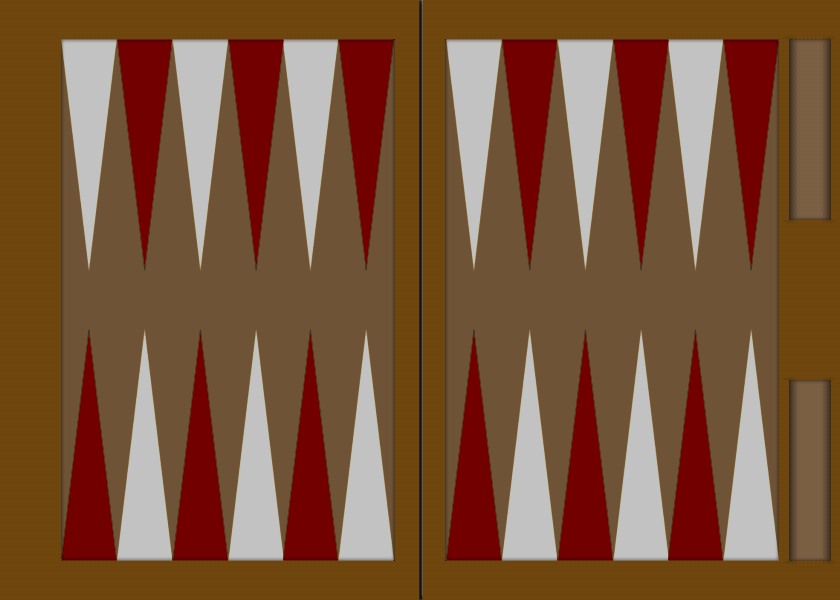
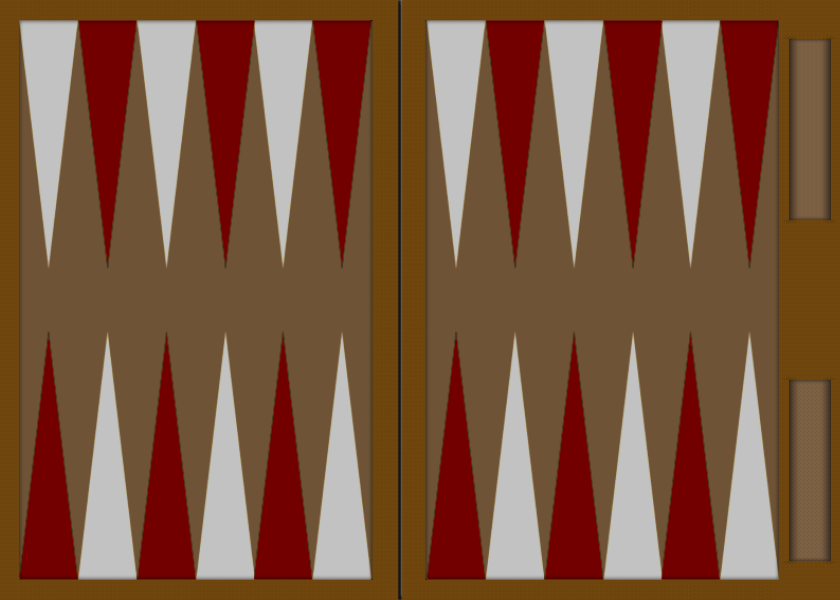
improved board disposition

diff --git a/backgammon-vertx/static/board.html b/backgammon-vertx/static/board.html
@@ -76,89 +76,89 @@
         <div id="blackDiceNr3" class="dice black-1 hidden"></div>
         <div id="blackDiceNr4" class="dice black-1 hidden"></div>
 
-        <div id="point-black-graveyard" class="point" style="top:331px;left:395px;">
-        	<div class="checker hidden" style="top:-20px"></div><div class="checker hidden" style="top:20px"></div><div class="checker hidden" style="top:60px"></div><div class="checker hidden" style="top:100px"></div><div class="checker hidden" style="top:140px"></div><div class="checker hidden" style="top:180px"></div><div class="checker hidden" style="top:160px"></div><div class="checker hidden" style="top:120px"></div><div class="checker hidden" style="top:80px"></div><div class="checker hidden" style="top:40px"></div><div class="checker hidden" style="top:0px"></div><div class="checker hidden" style="top:20px"></div><div class="checker hidden" style="top:60px"></div><div class="checker hidden" style="top:100px"></div><div class="checker hidden" style="top:140px"></div>
+        <div id="point-black-graveyard" class="point" style="top:335px;left:375px;">
+        	<div class="checker hidden" style="top:0px"></div><div class="checker hidden" style="top:40px"></div><div class="checker hidden" style="top:80px"></div><div class="checker hidden" style="top:120px"></div><div class="checker hidden" style="top:160px"></div><div class="checker hidden" style="top:200px"></div><div class="checker hidden" style="top:20px"></div><div class="checker hidden" style="top:60px"></div><div class="checker hidden" style="top:100px"></div><div class="checker hidden" style="top:140px"></div><div class="checker hidden" style="top:180px"></div><div class="checker hidden" style="top:40px"></div><div class="checker hidden" style="top:80px"></div><div class="checker hidden" style="top:120px"></div><div class="checker hidden" style="top:160px"></div>
         </div>
         <div id="point-white-home" class="point" style="top:377px;left:789px;">
         	<div class="topdown-checker hidden" style="top:0px"></div><div class="topdown-checker hidden" style="top:12px"></div><div class="topdown-checker hidden" style="top:24px"></div><div class="topdown-checker hidden" style="top:36px"></div><div class="topdown-checker hidden" style="top:48px"></div><div class="topdown-checker hidden" style="top:60px"></div><div class="topdown-checker hidden" style="top:72px"></div><div class="topdown-checker hidden" style="top:84px"></div><div class="topdown-checker hidden" style="top:96px"></div><div class="topdown-checker hidden" style="top:108px"></div><div class="topdown-checker hidden" style="top:120px"></div><div class="topdown-checker hidden" style="top:132px"></div><div class="topdown-checker hidden" style="top:144px"></div><div class="topdown-checker hidden" style="top:156px"></div><div class="topdown-checker hidden" style="top:168px"></div>
         </div>
-        <div id="point-1" class="point" style="top:333px;left:727px;">
-        	<div class="checker hidden" style="top:180px"></div><div class="checker hidden" style="top:140px"></div><div class="checker hidden" style="top:100px"></div><div class="checker hidden" style="top:60px"></div><div class="checker hidden" style="top:20px"></div><div class="checker hidden" style="top:-20px"></div><div class="checker hidden" style="top:0px"></div><div class="checker hidden" style="top:40px"></div><div class="checker hidden" style="top:80px"></div><div class="checker hidden" style="top:120px"></div><div class="checker hidden" style="top:160px"></div><div class="checker hidden" style="top:140px"></div><div class="checker hidden" style="top:100px"></div><div class="checker hidden" style="top:60px"></div><div class="checker hidden" style="top:20px"></div>
+        <div id="point-1" class="point" style="top:335px;left:722px;">
+        	<div class="checker hidden" style="top:200px"></div><div class="checker hidden" style="top:160px"></div><div class="checker hidden" style="top:120px"></div><div class="checker hidden" style="top:80px"></div><div class="checker hidden" style="top:40px"></div><div class="checker hidden" style="top:0px"></div><div class="checker hidden" style="top:180px"></div><div class="checker hidden" style="top:140px"></div><div class="checker hidden" style="top:100px"></div><div class="checker hidden" style="top:60px"></div><div class="checker hidden" style="top:20px"></div><div class="checker hidden" style="top:160px"></div><div class="checker hidden" style="top:120px"></div><div class="checker hidden" style="top:80px"></div><div class="checker hidden" style="top:40px"></div>
         </div>
-        <div id="point-2" class="point" style="top:333px;left:672px;">
-        	<div class="checker hidden" style="top:180px"></div><div class="checker hidden" style="top:140px"></div><div class="checker hidden" style="top:100px"></div><div class="checker hidden" style="top:60px"></div><div class="checker hidden" style="top:20px"></div><div class="checker hidden" style="top:-20px"></div><div class="checker hidden" style="top:0px"></div><div class="checker hidden" style="top:40px"></div><div class="checker hidden" style="top:80px"></div><div class="checker hidden" style="top:120px"></div><div class="checker hidden" style="top:160px"></div><div class="checker hidden" style="top:140px"></div><div class="checker hidden" style="top:100px"></div><div class="checker hidden" style="top:60px"></div><div class="checker hidden" style="top:20px"></div>
+        <div id="point-2" class="point" style="top:335px;left:663px;">
+        	<div class="checker hidden" style="top:200px"></div><div class="checker hidden" style="top:160px"></div><div class="checker hidden" style="top:120px"></div><div class="checker hidden" style="top:80px"></div><div class="checker hidden" style="top:40px"></div><div class="checker hidden" style="top:0px"></div><div class="checker hidden" style="top:180px"></div><div class="checker hidden" style="top:140px"></div><div class="checker hidden" style="top:100px"></div><div class="checker hidden" style="top:60px"></div><div class="checker hidden" style="top:20px"></div><div class="checker hidden" style="top:160px"></div><div class="checker hidden" style="top:120px"></div><div class="checker hidden" style="top:80px"></div><div class="checker hidden" style="top:40px"></div>
         </div>
-        <div id="point-3" class="point" style="top:333px;left:617px;">
-			<div class="checker hidden" style="top:180px"></div><div class="checker hidden" style="top:140px"></div><div class="checker hidden" style="top:100px"></div><div class="checker hidden" style="top:60px"></div><div class="checker hidden" style="top:20px"></div><div class="checker hidden" style="top:-20px"></div><div class="checker hidden" style="top:0px"></div><div class="checker hidden" style="top:40px"></div><div class="checker hidden" style="top:80px"></div><div class="checker hidden" style="top:120px"></div><div class="checker hidden" style="top:160px"></div><div class="checker hidden" style="top:140px"></div><div class="checker hidden" style="top:100px"></div><div class="checker hidden" style="top:60px"></div><div class="checker hidden" style="top:20px"></div>
+        <div id="point-3" class="point" style="top:335px;left:605px;">
+			<div class="checker hidden" style="top:200px"></div><div class="checker hidden" style="top:160px"></div><div class="checker hidden" style="top:120px"></div><div class="checker hidden" style="top:80px"></div><div class="checker hidden" style="top:40px"></div><div class="checker hidden" style="top:0px"></div><div class="checker hidden" style="top:180px"></div><div class="checker hidden" style="top:140px"></div><div class="checker hidden" style="top:100px"></div><div class="checker hidden" style="top:60px"></div><div class="checker hidden" style="top:20px"></div><div class="checker hidden" style="top:160px"></div><div class="checker hidden" style="top:120px"></div><div class="checker hidden" style="top:80px"></div><div class="checker hidden" style="top:40px"></div>
         </div>
-        <div id="point-4" class="point" style="top:333px;left:562px;">
-			<div class="checker hidden" style="top:180px"></div><div class="checker hidden" style="top:140px"></div><div class="checker hidden" style="top:100px"></div><div class="checker hidden" style="top:60px"></div><div class="checker hidden" style="top:20px"></div><div class="checker hidden" style="top:-20px"></div><div class="checker hidden" style="top:0px"></div><div class="checker hidden" style="top:40px"></div><div class="checker hidden" style="top:80px"></div><div class="checker hidden" style="top:120px"></div><div class="checker hidden" style="top:160px"></div><div class="checker hidden" style="top:140px"></div><div class="checker hidden" style="top:100px"></div><div class="checker hidden" style="top:60px"></div><div class="checker hidden" style="top:20px"></div>
+        <div id="point-4" class="point" style="top:335px;left:546px;">
+			<div class="checker hidden" style="top:200px"></div><div class="checker hidden" style="top:160px"></div><div class="checker hidden" style="top:120px"></div><div class="checker hidden" style="top:80px"></div><div class="checker hidden" style="top:40px"></div><div class="checker hidden" style="top:0px"></div><div class="checker hidden" style="top:180px"></div><div class="checker hidden" style="top:140px"></div><div class="checker hidden" style="top:100px"></div><div class="checker hidden" style="top:60px"></div><div class="checker hidden" style="top:20px"></div><div class="checker hidden" style="top:160px"></div><div class="checker hidden" style="top:120px"></div><div class="checker hidden" style="top:80px"></div><div class="checker hidden" style="top:40px"></div>
         </div>
-        <div id="point-5" class="point" style="top:333px;left:507px;">
-			<div class="checker hidden" style="top:180px"></div><div class="checker hidden" style="top:140px"></div><div class="checker hidden" style="top:100px"></div><div class="checker hidden" style="top:60px"></div><div class="checker hidden" style="top:20px"></div><div class="checker hidden" style="top:-20px"></div><div class="checker hidden" style="top:0px"></div><div class="checker hidden" style="top:40px"></div><div class="checker hidden" style="top:80px"></div><div class="checker hidden" style="top:120px"></div><div class="checker hidden" style="top:160px"></div><div class="checker hidden" style="top:140px"></div><div class="checker hidden" style="top:100px"></div><div class="checker hidden" style="top:60px"></div><div class="checker hidden" style="top:20px"></div>
+        <div id="point-5" class="point" style="top:335px;left:487px;">
+			<div class="checker hidden" style="top:200px"></div><div class="checker hidden" style="top:160px"></div><div class="checker hidden" style="top:120px"></div><div class="checker hidden" style="top:80px"></div><div class="checker hidden" style="top:40px"></div><div class="checker hidden" style="top:0px"></div><div class="checker hidden" style="top:180px"></div><div class="checker hidden" style="top:140px"></div><div class="checker hidden" style="top:100px"></div><div class="checker hidden" style="top:60px"></div><div class="checker hidden" style="top:20px"></div><div class="checker hidden" style="top:160px"></div><div class="checker hidden" style="top:120px"></div><div class="checker hidden" style="top:80px"></div><div class="checker hidden" style="top:40px"></div>
         </div>
-        <div id="point-6" class="point" style="top:333px;left:452px;">
-			<div class="checker hidden" style="top:180px"></div><div class="checker hidden" style="top:140px"></div><div class="checker hidden" style="top:100px"></div><div class="checker hidden" style="top:60px"></div><div class="checker hidden" style="top:20px"></div><div class="checker hidden" style="top:-20px"></div><div class="checker hidden" style="top:0px"></div><div class="checker hidden" style="top:40px"></div><div class="checker hidden" style="top:80px"></div><div class="checker hidden" style="top:120px"></div><div class="checker hidden" style="top:160px"></div><div class="checker hidden" style="top:140px"></div><div class="checker hidden" style="top:100px"></div><div class="checker hidden" style="top:60px"></div><div class="checker hidden" style="top:20px"></div>
+        <div id="point-6" class="point" style="top:335px;left:428px;">
+			<div class="checker hidden" style="top:200px"></div><div class="checker hidden" style="top:160px"></div><div class="checker hidden" style="top:120px"></div><div class="checker hidden" style="top:80px"></div><div class="checker hidden" style="top:40px"></div><div class="checker hidden" style="top:0px"></div><div class="checker hidden" style="top:180px"></div><div class="checker hidden" style="top:140px"></div><div class="checker hidden" style="top:100px"></div><div class="checker hidden" style="top:60px"></div><div class="checker hidden" style="top:20px"></div><div class="checker hidden" style="top:160px"></div><div class="checker hidden" style="top:120px"></div><div class="checker hidden" style="top:80px"></div><div class="checker hidden" style="top:40px"></div>
         </div>
-        <div id="point-7" class="point" style="top:333px;left:342px;">
-			<div class="checker hidden" style="top:180px"></div><div class="checker hidden" style="top:140px"></div><div class="checker hidden" style="top:100px"></div><div class="checker hidden" style="top:60px"></div><div class="checker hidden" style="top:20px"></div><div class="checker hidden" style="top:-20px"></div><div class="checker hidden" style="top:0px"></div><div class="checker hidden" style="top:40px"></div><div class="checker hidden" style="top:80px"></div><div class="checker hidden" style="top:120px"></div><div class="checker hidden" style="top:160px"></div><div class="checker hidden" style="top:140px"></div><div class="checker hidden" style="top:100px"></div><div class="checker hidden" style="top:60px"></div><div class="checker hidden" style="top:20px"></div>
+        <div id="point-7" class="point" style="top:335px;left:314px;">
+			<div class="checker hidden" style="top:200px"></div><div class="checker hidden" style="top:160px"></div><div class="checker hidden" style="top:120px"></div><div class="checker hidden" style="top:80px"></div><div class="checker hidden" style="top:40px"></div><div class="checker hidden" style="top:0px"></div><div class="checker hidden" style="top:180px"></div><div class="checker hidden" style="top:140px"></div><div class="checker hidden" style="top:100px"></div><div class="checker hidden" style="top:60px"></div><div class="checker hidden" style="top:20px"></div><div class="checker hidden" style="top:160px"></div><div class="checker hidden" style="top:120px"></div><div class="checker hidden" style="top:80px"></div><div class="checker hidden" style="top:40px"></div>
         </div>
-        <div id="point-8" class="point" style="top:333px;left:287px;">
-			<div class="checker hidden" style="top:180px"></div><div class="checker hidden" style="top:140px"></div><div class="checker hidden" style="top:100px"></div><div class="checker hidden" style="top:60px"></div><div class="checker hidden" style="top:20px"></div><div class="checker hidden" style="top:-20px"></div><div class="checker hidden" style="top:0px"></div><div class="checker hidden" style="top:40px"></div><div class="checker hidden" style="top:80px"></div><div class="checker hidden" style="top:120px"></div><div class="checker hidden" style="top:160px"></div><div class="checker hidden" style="top:140px"></div><div class="checker hidden" style="top:100px"></div><div class="checker hidden" style="top:60px"></div><div class="checker hidden" style="top:20px"></div>
+        <div id="point-8" class="point" style="top:335px;left:255px;">
+			<div class="checker hidden" style="top:200px"></div><div class="checker hidden" style="top:160px"></div><div class="checker hidden" style="top:120px"></div><div class="checker hidden" style="top:80px"></div><div class="checker hidden" style="top:40px"></div><div class="checker hidden" style="top:0px"></div><div class="checker hidden" style="top:180px"></div><div class="checker hidden" style="top:140px"></div><div class="checker hidden" style="top:100px"></div><div class="checker hidden" style="top:60px"></div><div class="checker hidden" style="top:20px"></div><div class="checker hidden" style="top:160px"></div><div class="checker hidden" style="top:120px"></div><div class="checker hidden" style="top:80px"></div><div class="checker hidden" style="top:40px"></div>
         </div>
-        <div id="point-9" class="point" style="top:333px;left:232px;">
-			<div class="checker hidden" style="top:180px"></div><div class="checker hidden" style="top:140px"></div><div class="checker hidden" style="top:100px"></div><div class="checker hidden" style="top:60px"></div><div class="checker hidden" style="top:20px"></div><div class="checker hidden" style="top:-20px"></div><div class="checker hidden" style="top:0px"></div><div class="checker hidden" style="top:40px"></div><div class="checker hidden" style="top:80px"></div><div class="checker hidden" style="top:120px"></div><div class="checker hidden" style="top:160px"></div><div class="checker hidden" style="top:140px"></div><div class="checker hidden" style="top:100px"></div><div class="checker hidden" style="top:60px"></div><div class="checker hidden" style="top:20px"></div>
+        <div id="point-9" class="point" style="top:335px;left:197px;">
+			<div class="checker hidden" style="top:200px"></div><div class="checker hidden" style="top:160px"></div><div class="checker hidden" style="top:120px"></div><div class="checker hidden" style="top:80px"></div><div class="checker hidden" style="top:40px"></div><div class="checker hidden" style="top:0px"></div><div class="checker hidden" style="top:180px"></div><div class="checker hidden" style="top:140px"></div><div class="checker hidden" style="top:100px"></div><div class="checker hidden" style="top:60px"></div><div class="checker hidden" style="top:20px"></div><div class="checker hidden" style="top:160px"></div><div class="checker hidden" style="top:120px"></div><div class="checker hidden" style="top:80px"></div><div class="checker hidden" style="top:40px"></div>
         </div>
-        <div id="point-10" class="point" style="top:333px;left:177px;">
-			<div class="checker hidden" style="top:180px"></div><div class="checker hidden" style="top:140px"></div><div class="checker hidden" style="top:100px"></div><div class="checker hidden" style="top:60px"></div><div class="checker hidden" style="top:20px"></div><div class="checker hidden" style="top:-20px"></div><div class="checker hidden" style="top:0px"></div><div class="checker hidden" style="top:40px"></div><div class="checker hidden" style="top:80px"></div><div class="checker hidden" style="top:120px"></div><div class="checker hidden" style="top:160px"></div><div class="checker hidden" style="top:140px"></div><div class="checker hidden" style="top:100px"></div><div class="checker hidden" style="top:60px"></div><div class="checker hidden" style="top:20px"></div>
+        <div id="point-10" class="point" style="top:335px;left:139px;">
+			<div class="checker hidden" style="top:200px"></div><div class="checker hidden" style="top:160px"></div><div class="checker hidden" style="top:120px"></div><div class="checker hidden" style="top:80px"></div><div class="checker hidden" style="top:40px"></div><div class="checker hidden" style="top:0px"></div><div class="checker hidden" style="top:180px"></div><div class="checker hidden" style="top:140px"></div><div class="checker hidden" style="top:100px"></div><div class="checker hidden" style="top:60px"></div><div class="checker hidden" style="top:20px"></div><div class="checker hidden" style="top:160px"></div><div class="checker hidden" style="top:120px"></div><div class="checker hidden" style="top:80px"></div><div class="checker hidden" style="top:40px"></div>
         </div>
-        <div id="point-11" class="point" style="top:333px;left:122px;">
-			<div class="checker hidden" style="top:180px"></div><div class="checker hidden" style="top:140px"></div><div class="checker hidden" style="top:100px"></div><div class="checker hidden" style="top:60px"></div><div class="checker hidden" style="top:20px"></div><div class="checker hidden" style="top:-20px"></div><div class="checker hidden" style="top:0px"></div><div class="checker hidden" style="top:40px"></div><div class="checker hidden" style="top:80px"></div><div class="checker hidden" style="top:120px"></div><div class="checker hidden" style="top:160px"></div><div class="checker hidden" style="top:140px"></div><div class="checker hidden" style="top:100px"></div><div class="checker hidden" style="top:60px"></div><div class="checker hidden" style="top:20px"></div>
+        <div id="point-11" class="point" style="top:335px;left:79px;">
+			<div class="checker hidden" style="top:200px"></div><div class="checker hidden" style="top:160px"></div><div class="checker hidden" style="top:120px"></div><div class="checker hidden" style="top:80px"></div><div class="checker hidden" style="top:40px"></div><div class="checker hidden" style="top:0px"></div><div class="checker hidden" style="top:180px"></div><div class="checker hidden" style="top:140px"></div><div class="checker hidden" style="top:100px"></div><div class="checker hidden" style="top:60px"></div><div class="checker hidden" style="top:20px"></div><div class="checker hidden" style="top:160px"></div><div class="checker hidden" style="top:120px"></div><div class="checker hidden" style="top:80px"></div><div class="checker hidden" style="top:40px"></div>
         </div>
-        <div id="point-12" class="point" style="top:333px;left:67px;">
-			<div class="checker hidden" style="top:180px"></div><div class="checker hidden" style="top:140px"></div><div class="checker hidden" style="top:100px"></div><div class="checker hidden" style="top:60px"></div><div class="checker hidden" style="top:20px"></div><div class="checker hidden" style="top:-20px"></div><div class="checker hidden" style="top:0px"></div><div class="checker hidden" style="top:40px"></div><div class="checker hidden" style="top:80px"></div><div class="checker hidden" style="top:120px"></div><div class="checker hidden" style="top:160px"></div><div class="checker hidden" style="top:140px"></div><div class="checker hidden" style="top:100px"></div><div class="checker hidden" style="top:60px"></div><div class="checker hidden" style="top:20px"></div>
+        <div id="point-12" class="point" style="top:335px;left:21px;">
+			<div class="checker hidden" style="top:200px"></div><div class="checker hidden" style="top:160px"></div><div class="checker hidden" style="top:120px"></div><div class="checker hidden" style="top:80px"></div><div class="checker hidden" style="top:40px"></div><div class="checker hidden" style="top:0px"></div><div class="checker hidden" style="top:180px"></div><div class="checker hidden" style="top:140px"></div><div class="checker hidden" style="top:100px"></div><div class="checker hidden" style="top:60px"></div><div class="checker hidden" style="top:20px"></div><div class="checker hidden" style="top:160px"></div><div class="checker hidden" style="top:120px"></div><div class="checker hidden" style="top:80px"></div><div class="checker hidden" style="top:40px"></div>
         </div>
-        <div id="point-13" class="point" style="top:36px;left:67px;">
-			<div class="checker hidden" style="top:0px"></div><div class="checker hidden" style="top:40px"></div><div class="checker hidden" style="top:80px"></div><div class="checker hidden" style="top:120px"></div><div class="checker hidden" style="top:160px"></div><div class="checker hidden" style="top:200px"></div><div class="checker hidden" style="top:180px"></div><div class="checker hidden" style="top:140px"></div><div class="checker hidden" style="top:100px"></div><div class="checker hidden" style="top:60px"></div><div class="checker hidden" style="top:20px"></div><div class="checker hidden" style="top:40px"></div><div class="checker hidden" style="top:80px"></div><div class="checker hidden" style="top:120px"></div><div class="checker hidden" style="top:160px"></div>
+        <div id="point-13" class="point" style="top:17px;left:21px;">
+			<div class="checker hidden" style="top:0px"></div><div class="checker hidden" style="top:40px"></div><div class="checker hidden" style="top:80px"></div><div class="checker hidden" style="top:120px"></div><div class="checker hidden" style="top:160px"></div><div class="checker hidden" style="top:200px"></div><div class="checker hidden" style="top:20px"></div><div class="checker hidden" style="top:60px"></div><div class="checker hidden" style="top:100px"></div><div class="checker hidden" style="top:140px"></div><div class="checker hidden" style="top:180px"></div><div class="checker hidden" style="top:40px"></div><div class="checker hidden" style="top:80px"></div><div class="checker hidden" style="top:120px"></div><div class="checker hidden" style="top:160px"></div>
         </div>
-        <div id="point-14" class="point" style="top:36px;left:122px;">
-			<div class="checker hidden" style="top:0px"></div><div class="checker hidden" style="top:40px"></div><div class="checker hidden" style="top:80px"></div><div class="checker hidden" style="top:120px"></div><div class="checker hidden" style="top:160px"></div><div class="checker hidden" style="top:200px"></div><div class="checker hidden" style="top:180px"></div><div class="checker hidden" style="top:140px"></div><div class="checker hidden" style="top:100px"></div><div class="checker hidden" style="top:60px"></div><div class="checker hidden" style="top:20px"></div><div class="checker hidden" style="top:40px"></div><div class="checker hidden" style="top:80px"></div><div class="checker hidden" style="top:120px"></div><div class="checker hidden" style="top:160px"></div>
+        <div id="point-14" class="point" style="top:17px;left:79px;">
+			<div class="checker hidden" style="top:0px"></div><div class="checker hidden" style="top:40px"></div><div class="checker hidden" style="top:80px"></div><div class="checker hidden" style="top:120px"></div><div class="checker hidden" style="top:160px"></div><div class="checker hidden" style="top:200px"></div><div class="checker hidden" style="top:20px"></div><div class="checker hidden" style="top:60px"></div><div class="checker hidden" style="top:100px"></div><div class="checker hidden" style="top:140px"></div><div class="checker hidden" style="top:180px"></div><div class="checker hidden" style="top:40px"></div><div class="checker hidden" style="top:80px"></div><div class="checker hidden" style="top:120px"></div><div class="checker hidden" style="top:160px"></div>
         </div>
-        <div id="point-15" class="point" style="top:36px;left:177px;">
-			<div class="checker hidden" style="top:0px"></div><div class="checker hidden" style="top:40px"></div><div class="checker hidden" style="top:80px"></div><div class="checker hidden" style="top:120px"></div><div class="checker hidden" style="top:160px"></div><div class="checker hidden" style="top:200px"></div><div class="checker hidden" style="top:180px"></div><div class="checker hidden" style="top:140px"></div><div class="checker hidden" style="top:100px"></div><div class="checker hidden" style="top:60px"></div><div class="checker hidden" style="top:20px"></div><div class="checker hidden" style="top:40px"></div><div class="checker hidden" style="top:80px"></div><div class="checker hidden" style="top:120px"></div><div class="checker hidden" style="top:160px"></div>
+        <div id="point-15" class="point" style="top:17px;left:139px;">
+			<div class="checker hidden" style="top:0px"></div><div class="checker hidden" style="top:40px"></div><div class="checker hidden" style="top:80px"></div><div class="checker hidden" style="top:120px"></div><div class="checker hidden" style="top:160px"></div><div class="checker hidden" style="top:200px"></div><div class="checker hidden" style="top:20px"></div><div class="checker hidden" style="top:60px"></div><div class="checker hidden" style="top:100px"></div><div class="checker hidden" style="top:140px"></div><div class="checker hidden" style="top:180px"></div><div class="checker hidden" style="top:40px"></div><div class="checker hidden" style="top:80px"></div><div class="checker hidden" style="top:120px"></div><div class="checker hidden" style="top:160px"></div>
         </div>
-        <div id="point-16" class="point" style="top:36px;left:232px;">
-			<div class="checker hidden" style="top:0px"></div><div class="checker hidden" style="top:40px"></div><div class="checker hidden" style="top:80px"></div><div class="checker hidden" style="top:120px"></div><div class="checker hidden" style="top:160px"></div><div class="checker hidden" style="top:200px"></div><div class="checker hidden" style="top:180px"></div><div class="checker hidden" style="top:140px"></div><div class="checker hidden" style="top:100px"></div><div class="checker hidden" style="top:60px"></div><div class="checker hidden" style="top:20px"></div><div class="checker hidden" style="top:40px"></div><div class="checker hidden" style="top:80px"></div><div class="checker hidden" style="top:120px"></div><div class="checker hidden" style="top:160px"></div>
+        <div id="point-16" class="point" style="top:17px;left:197px;">
+			<div class="checker hidden" style="top:0px"></div><div class="checker hidden" style="top:40px"></div><div class="checker hidden" style="top:80px"></div><div class="checker hidden" style="top:120px"></div><div class="checker hidden" style="top:160px"></div><div class="checker hidden" style="top:200px"></div><div class="checker hidden" style="top:20px"></div><div class="checker hidden" style="top:60px"></div><div class="checker hidden" style="top:100px"></div><div class="checker hidden" style="top:140px"></div><div class="checker hidden" style="top:180px"></div><div class="checker hidden" style="top:40px"></div><div class="checker hidden" style="top:80px"></div><div class="checker hidden" style="top:120px"></div><div class="checker hidden" style="top:160px"></div>
         </div>
-        <div id="point-17" class="point" style="top:36px;left:287px;">
-			<div class="checker hidden" style="top:0px"></div><div class="checker hidden" style="top:40px"></div><div class="checker hidden" style="top:80px"></div><div class="checker hidden" style="top:120px"></div><div class="checker hidden" style="top:160px"></div><div class="checker hidden" style="top:200px"></div><div class="checker hidden" style="top:180px"></div><div class="checker hidden" style="top:140px"></div><div class="checker hidden" style="top:100px"></div><div class="checker hidden" style="top:60px"></div><div class="checker hidden" style="top:20px"></div><div class="checker hidden" style="top:40px"></div><div class="checker hidden" style="top:80px"></div><div class="checker hidden" style="top:120px"></div><div class="checker hidden" style="top:160px"></div>
+        <div id="point-17" class="point" style="top:17px;left:255px;">
+			<div class="checker hidden" style="top:0px"></div><div class="checker hidden" style="top:40px"></div><div class="checker hidden" style="top:80px"></div><div class="checker hidden" style="top:120px"></div><div class="checker hidden" style="top:160px"></div><div class="checker hidden" style="top:200px"></div><div class="checker hidden" style="top:20px"></div><div class="checker hidden" style="top:60px"></div><div class="checker hidden" style="top:100px"></div><div class="checker hidden" style="top:140px"></div><div class="checker hidden" style="top:180px"></div><div class="checker hidden" style="top:40px"></div><div class="checker hidden" style="top:80px"></div><div class="checker hidden" style="top:120px"></div><div class="checker hidden" style="top:160px"></div>
         </div>
-        <div id="point-18" class="point" style="top:36px;left:342px;">
-			<div class="checker hidden" style="top:0px"></div><div class="checker hidden" style="top:40px"></div><div class="checker hidden" style="top:80px"></div><div class="checker hidden" style="top:120px"></div><div class="checker hidden" style="top:160px"></div><div class="checker hidden" style="top:200px"></div><div class="checker hidden" style="top:180px"></div><div class="checker hidden" style="top:140px"></div><div class="checker hidden" style="top:100px"></div><div class="checker hidden" style="top:60px"></div><div class="checker hidden" style="top:20px"></div><div class="checker hidden" style="top:40px"></div><div class="checker hidden" style="top:80px"></div><div class="checker hidden" style="top:120px"></div><div class="checker hidden" style="top:160px"></div>
+        <div id="point-18" class="point" style="top:17px;left:314px;">
+			<div class="checker hidden" style="top:0px"></div><div class="checker hidden" style="top:40px"></div><div class="checker hidden" style="top:80px"></div><div class="checker hidden" style="top:120px"></div><div class="checker hidden" style="top:160px"></div><div class="checker hidden" style="top:200px"></div><div class="checker hidden" style="top:20px"></div><div class="checker hidden" style="top:60px"></div><div class="checker hidden" style="top:100px"></div><div class="checker hidden" style="top:140px"></div><div class="checker hidden" style="top:180px"></div><div class="checker hidden" style="top:40px"></div><div class="checker hidden" style="top:80px"></div><div class="checker hidden" style="top:120px"></div><div class="checker hidden" style="top:160px"></div>
         </div>
-        <div id="point-19" class="point" style="top:36px;left:452px;">
-			<div class="checker hidden" style="top:0px"></div><div class="checker hidden" style="top:40px"></div><div class="checker hidden" style="top:80px"></div><div class="checker hidden" style="top:120px"></div><div class="checker hidden" style="top:160px"></div><div class="checker hidden" style="top:200px"></div><div class="checker hidden" style="top:180px"></div><div class="checker hidden" style="top:140px"></div><div class="checker hidden" style="top:100px"></div><div class="checker hidden" style="top:60px"></div><div class="checker hidden" style="top:20px"></div><div class="checker hidden" style="top:40px"></div><div class="checker hidden" style="top:80px"></div><div class="checker hidden" style="top:120px"></div><div class="checker hidden" style="top:160px"></div>
+        <div id="point-19" class="point" style="top:17px;left:428px;">
+			<div class="checker hidden" style="top:0px"></div><div class="checker hidden" style="top:40px"></div><div class="checker hidden" style="top:80px"></div><div class="checker hidden" style="top:120px"></div><div class="checker hidden" style="top:160px"></div><div class="checker hidden" style="top:200px"></div><div class="checker hidden" style="top:20px"></div><div class="checker hidden" style="top:60px"></div><div class="checker hidden" style="top:100px"></div><div class="checker hidden" style="top:140px"></div><div class="checker hidden" style="top:180px"></div><div class="checker hidden" style="top:40px"></div><div class="checker hidden" style="top:80px"></div><div class="checker hidden" style="top:120px"></div><div class="checker hidden" style="top:160px"></div>
         </div>
-        <div id="point-20" class="point" style="top:36px;left:507px;">
-			<div class="checker hidden" style="top:0px"></div><div class="checker hidden" style="top:40px"></div><div class="checker hidden" style="top:80px"></div><div class="checker hidden" style="top:120px"></div><div class="checker hidden" style="top:160px"></div><div class="checker hidden" style="top:200px"></div><div class="checker hidden" style="top:180px"></div><div class="checker hidden" style="top:140px"></div><div class="checker hidden" style="top:100px"></div><div class="checker hidden" style="top:60px"></div><div class="checker hidden" style="top:20px"></div><div class="checker hidden" style="top:40px"></div><div class="checker hidden" style="top:80px"></div><div class="checker hidden" style="top:120px"></div><div class="checker hidden" style="top:160px"></div>
+        <div id="point-20" class="point" style="top:17px;left:487px;">
+			<div class="checker hidden" style="top:0px"></div><div class="checker hidden" style="top:40px"></div><div class="checker hidden" style="top:80px"></div><div class="checker hidden" style="top:120px"></div><div class="checker hidden" style="top:160px"></div><div class="checker hidden" style="top:200px"></div><div class="checker hidden" style="top:20px"></div><div class="checker hidden" style="top:60px"></div><div class="checker hidden" style="top:100px"></div><div class="checker hidden" style="top:140px"></div><div class="checker hidden" style="top:180px"></div><div class="checker hidden" style="top:40px"></div><div class="checker hidden" style="top:80px"></div><div class="checker hidden" style="top:120px"></div><div class="checker hidden" style="top:160px"></div>
         </div>
-        <div id="point-21" class="point" style="top:36px;left:562px;">
-			<div class="checker hidden" style="top:0px"></div><div class="checker hidden" style="top:40px"></div><div class="checker hidden" style="top:80px"></div><div class="checker hidden" style="top:120px"></div><div class="checker hidden" style="top:160px"></div><div class="checker hidden" style="top:200px"></div><div class="checker hidden" style="top:180px"></div><div class="checker hidden" style="top:140px"></div><div class="checker hidden" style="top:100px"></div><div class="checker hidden" style="top:60px"></div><div class="checker hidden" style="top:20px"></div><div class="checker hidden" style="top:40px"></div><div class="checker hidden" style="top:80px"></div><div class="checker hidden" style="top:120px"></div><div class="checker hidden" style="top:160px"></div>
+        <div id="point-21" class="point" style="top:17px;left:546px;">
+			<div class="checker hidden" style="top:0px"></div><div class="checker hidden" style="top:40px"></div><div class="checker hidden" style="top:80px"></div><div class="checker hidden" style="top:120px"></div><div class="checker hidden" style="top:160px"></div><div class="checker hidden" style="top:200px"></div><div class="checker hidden" style="top:20px"></div><div class="checker hidden" style="top:60px"></div><div class="checker hidden" style="top:100px"></div><div class="checker hidden" style="top:140px"></div><div class="checker hidden" style="top:180px"></div><div class="checker hidden" style="top:40px"></div><div class="checker hidden" style="top:80px"></div><div class="checker hidden" style="top:120px"></div><div class="checker hidden" style="top:160px"></div>
         </div>
-        <div id="point-22" class="point" style="top:36px;left:617px;">
-			<div class="checker hidden" style="top:0px"></div><div class="checker hidden" style="top:40px"></div><div class="checker hidden" style="top:80px"></div><div class="checker hidden" style="top:120px"></div><div class="checker hidden" style="top:160px"></div><div class="checker hidden" style="top:200px"></div><div class="checker hidden" style="top:180px"></div><div class="checker hidden" style="top:140px"></div><div class="checker hidden" style="top:100px"></div><div class="checker hidden" style="top:60px"></div><div class="checker hidden" style="top:20px"></div><div class="checker hidden" style="top:40px"></div><div class="checker hidden" style="top:80px"></div><div class="checker hidden" style="top:120px"></div><div class="checker hidden" style="top:160px"></div>
+        <div id="point-22" class="point" style="top:17px;left:605px;">
+			<div class="checker hidden" style="top:0px"></div><div class="checker hidden" style="top:40px"></div><div class="checker hidden" style="top:80px"></div><div class="checker hidden" style="top:120px"></div><div class="checker hidden" style="top:160px"></div><div class="checker hidden" style="top:200px"></div><div class="checker hidden" style="top:20px"></div><div class="checker hidden" style="top:60px"></div><div class="checker hidden" style="top:100px"></div><div class="checker hidden" style="top:140px"></div><div class="checker hidden" style="top:180px"></div><div class="checker hidden" style="top:40px"></div><div class="checker hidden" style="top:80px"></div><div class="checker hidden" style="top:120px"></div><div class="checker hidden" style="top:160px"></div>
         </div>
-        <div id="point-23" class="point" style="top:36px;left:672px;">
-			<div class="checker hidden" style="top:0px"></div><div class="checker hidden" style="top:40px"></div><div class="checker hidden" style="top:80px"></div><div class="checker hidden" style="top:120px"></div><div class="checker hidden" style="top:160px"></div><div class="checker hidden" style="top:200px"></div><div class="checker hidden" style="top:180px"></div><div class="checker hidden" style="top:140px"></div><div class="checker hidden" style="top:100px"></div><div class="checker hidden" style="top:60px"></div><div class="checker hidden" style="top:20px"></div><div class="checker hidden" style="top:40px"></div><div class="checker hidden" style="top:80px"></div><div class="checker hidden" style="top:120px"></div><div class="checker hidden" style="top:160px"></div>
+        <div id="point-23" class="point" style="top:17px;left:663px;">
+			<div class="checker hidden" style="top:0px"></div><div class="checker hidden" style="top:40px"></div><div class="checker hidden" style="top:80px"></div><div class="checker hidden" style="top:120px"></div><div class="checker hidden" style="top:160px"></div><div class="checker hidden" style="top:200px"></div><div class="checker hidden" style="top:20px"></div><div class="checker hidden" style="top:60px"></div><div class="checker hidden" style="top:100px"></div><div class="checker hidden" style="top:140px"></div><div class="checker hidden" style="top:180px"></div><div class="checker hidden" style="top:40px"></div><div class="checker hidden" style="top:80px"></div><div class="checker hidden" style="top:120px"></div><div class="checker hidden" style="top:160px"></div>
         </div>
-        <div id="point-24" class="point" style="top:36px;left:727px;">
-			<div class="checker hidden" style="top:0px"></div><div class="checker hidden" style="top:40px"></div><div class="checker hidden" style="top:80px"></div><div class="checker hidden" style="top:120px"></div><div class="checker hidden" style="top:160px"></div><div class="checker hidden" style="top:200px"></div><div class="checker hidden" style="top:180px"></div><div class="checker hidden" style="top:140px"></div><div class="checker hidden" style="top:100px"></div><div class="checker hidden" style="top:60px"></div><div class="checker hidden" style="top:20px"></div><div class="checker hidden" style="top:40px"></div><div class="checker hidden" style="top:80px"></div><div class="checker hidden" style="top:120px"></div><div class="checker hidden" style="top:160px"></div>
+        <div id="point-24" class="point" style="top:17px;left:722px;">
+			<div class="checker hidden" style="top:0px"></div><div class="checker hidden" style="top:40px"></div><div class="checker hidden" style="top:80px"></div><div class="checker hidden" style="top:120px"></div><div class="checker hidden" style="top:160px"></div><div class="checker hidden" style="top:200px"></div><div class="checker hidden" style="top:20px"></div><div class="checker hidden" style="top:60px"></div><div class="checker hidden" style="top:100px"></div><div class="checker hidden" style="top:140px"></div><div class="checker hidden" style="top:180px"></div><div class="checker hidden" style="top:40px"></div><div class="checker hidden" style="top:80px"></div><div class="checker hidden" style="top:120px"></div><div class="checker hidden" style="top:160px"></div>
         </div>
         <div id="point-black-home" class="point" style="top:37px;left:789px;">
         	<div class="topdown-checker hidden" style="top:0px"></div><div class="topdown-checker hidden" style="top:12px"></div><div class="topdown-checker hidden" style="top:24px"></div><div class="topdown-checker hidden" style="top:36px"></div><div class="topdown-checker hidden" style="top:48px"></div><div class="topdown-checker hidden" style="top:60px"></div><div class="topdown-checker hidden" style="top:72px"></div><div class="topdown-checker hidden" style="top:84px"></div><div class="topdown-checker hidden" style="top:96px"></div><div class="topdown-checker hidden" style="top:108px"></div><div class="topdown-checker hidden" style="top:120px"></div><div class="topdown-checker hidden" style="top:132px"></div><div class="topdown-checker hidden" style="top:144px"></div><div class="topdown-checker hidden" style="top:156px"></div><div class="topdown-checker hidden" style="top:168px"></div>
         </div>
-        <div id="point-white-graveyard" class="point" style="top:39px;left:395px;">
-			<div class="checker hidden" style="top:200px"></div><div class="checker hidden" style="top:160px"></div><div class="checker hidden" style="top:120px"></div><div class="checker hidden" style="top:80px"></div><div class="checker hidden" style="top:40px"></div><div class="checker hidden" style="top:0px"></div><div class="checker hidden" style="top:20px"></div><div class="checker hidden" style="top:60px"></div><div class="checker hidden" style="top:100px"></div><div class="checker hidden" style="top:140px"></div><div class="checker hidden" style="top:180px"></div><div class="checker hidden" style="top:160px"></div><div class="checker hidden" style="top:120px"></div><div class="checker hidden" style="top:80px"></div><div class="checker hidden" style="top:40px"></div>
+        <div id="point-white-graveyard" class="point" style="top:39px;left:375px;">
+			<div class="checker hidden" style="top:200px"></div><div class="checker hidden" style="top:160px"></div><div class="checker hidden" style="top:120px"></div><div class="checker hidden" style="top:80px"></div><div class="checker hidden" style="top:40px"></div><div class="checker hidden" style="top:0px"></div><div class="checker hidden" style="top:180px"></div><div class="checker hidden" style="top:140px"></div><div class="checker hidden" style="top:100px"></div><div class="checker hidden" style="top:60px"></div><div class="checker hidden" style="top:20px"></div><div class="checker hidden" style="top:160px"></div><div class="checker hidden" style="top:120px"></div><div class="checker hidden" style="top:80px"></div><div class="checker hidden" style="top:40px"></div>
         </div>
         
       </div><!-- end of game board -->

diff --git a/backgammon-vertx/static/css/board.css b/backgammon-vertx/static/css/board.css
@@ -78,7 +78,7 @@ body {
 
 .point {
   position: absolute;
-  height: 230px;
+  height: 245px;
   width: 50px;
 }
 
